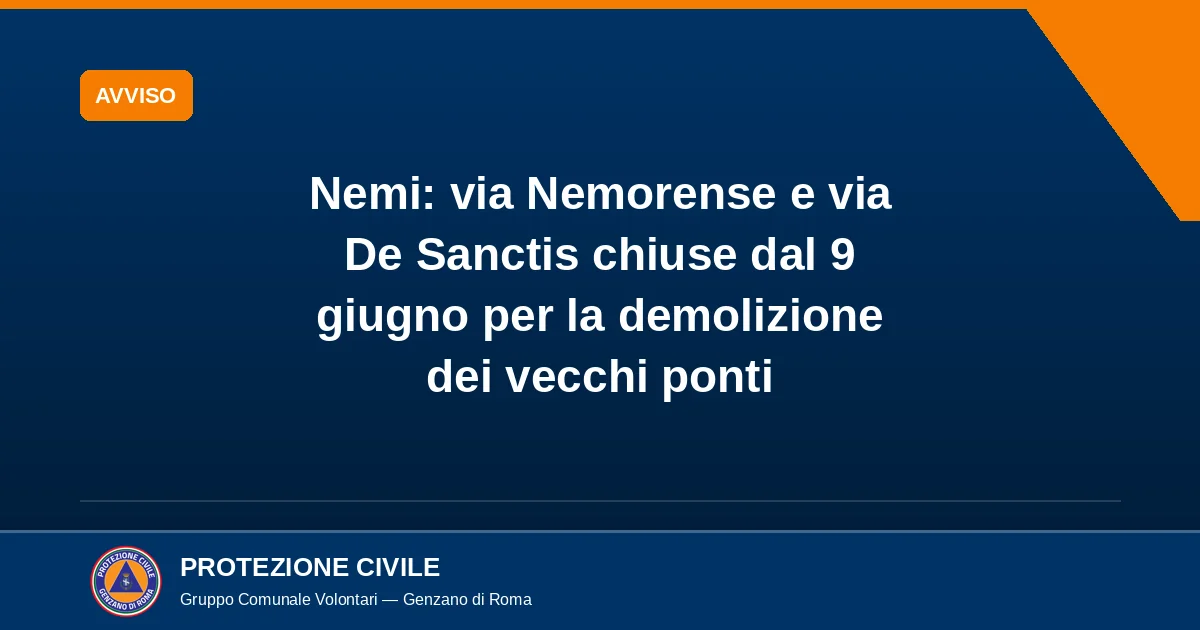
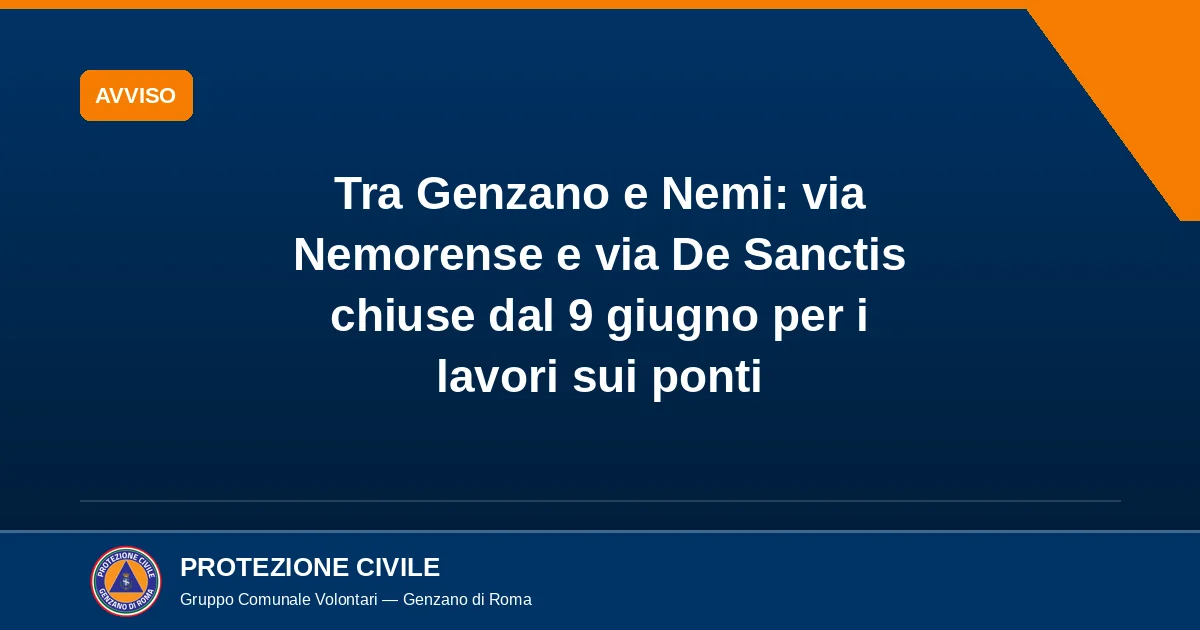
Articolo Nemi: titolo informativo orientato a chi viaggia tra Genzano e Nemi
Titolo da 'Nemi: ...' a 'Tra Genzano e Nemi: ...' per essere utile a chi
deve raggiungere o lasciare Genzano verso Nemi. Cover rigenerata, image_alt
allineato. Fonte del testo: profilo Astral Infomobilita.

https://claude.ai/code/session_01NDboWj5ru9FS5ivq5AhXsB

Changed region(s): [[0.2467, 0.3619, 0.7708, 0.5429], [0.2467, 0.2714, 0.74, 0.3317], [0.3392, 0.573, 0.6475, 0.6333]]

diff --git a/content/comunicazioni/2026-06-09-nemi-chiusura-via-nemorense-demolizione-ponti.md b/content/comunicazioni/2026-06-09-nemi-chiusura-via-nemorense-demolizione-ponti.md
@@ -1,12 +1,12 @@
 ---
-title: "Nemi: via Nemorense e via De Sanctis chiuse dal 9 giugno per la demolizione dei vecchi ponti"
+title: "Tra Genzano e Nemi: via Nemorense e via De Sanctis chiuse dal 9 giugno per i lavori sui ponti"
 date: 2026-06-09T00:06:00+02:00
 description: "Dal 9 giugno via Nemorense e via De Sanctis sono chiuse nei due sensi per i lavori di preparazione alla demolizione dei vecchi ponti di Nemi."
 badge: "Avviso"
 priorita: "normale"
 autore: "Gruppo Comunale Volontari PC Genzano"
 image: "/images/2026-06-09-nemi-chiusura-via-nemorense-demolizione-ponti.webp"
-image_alt: "Cover dell'articolo: Nemi, via Nemorense e via De Sanctis chiuse dal 9 giugno per la demolizione dei vecchi ponti"
+image_alt: "Cover dell'articolo: tra Genzano e Nemi, via Nemorense e via De Sanctis chiuse dal 9 giugno per i lavori sui ponti"
 scadenza: ""
 area: "Genzano di Roma — Nemi"
 allegati: []
